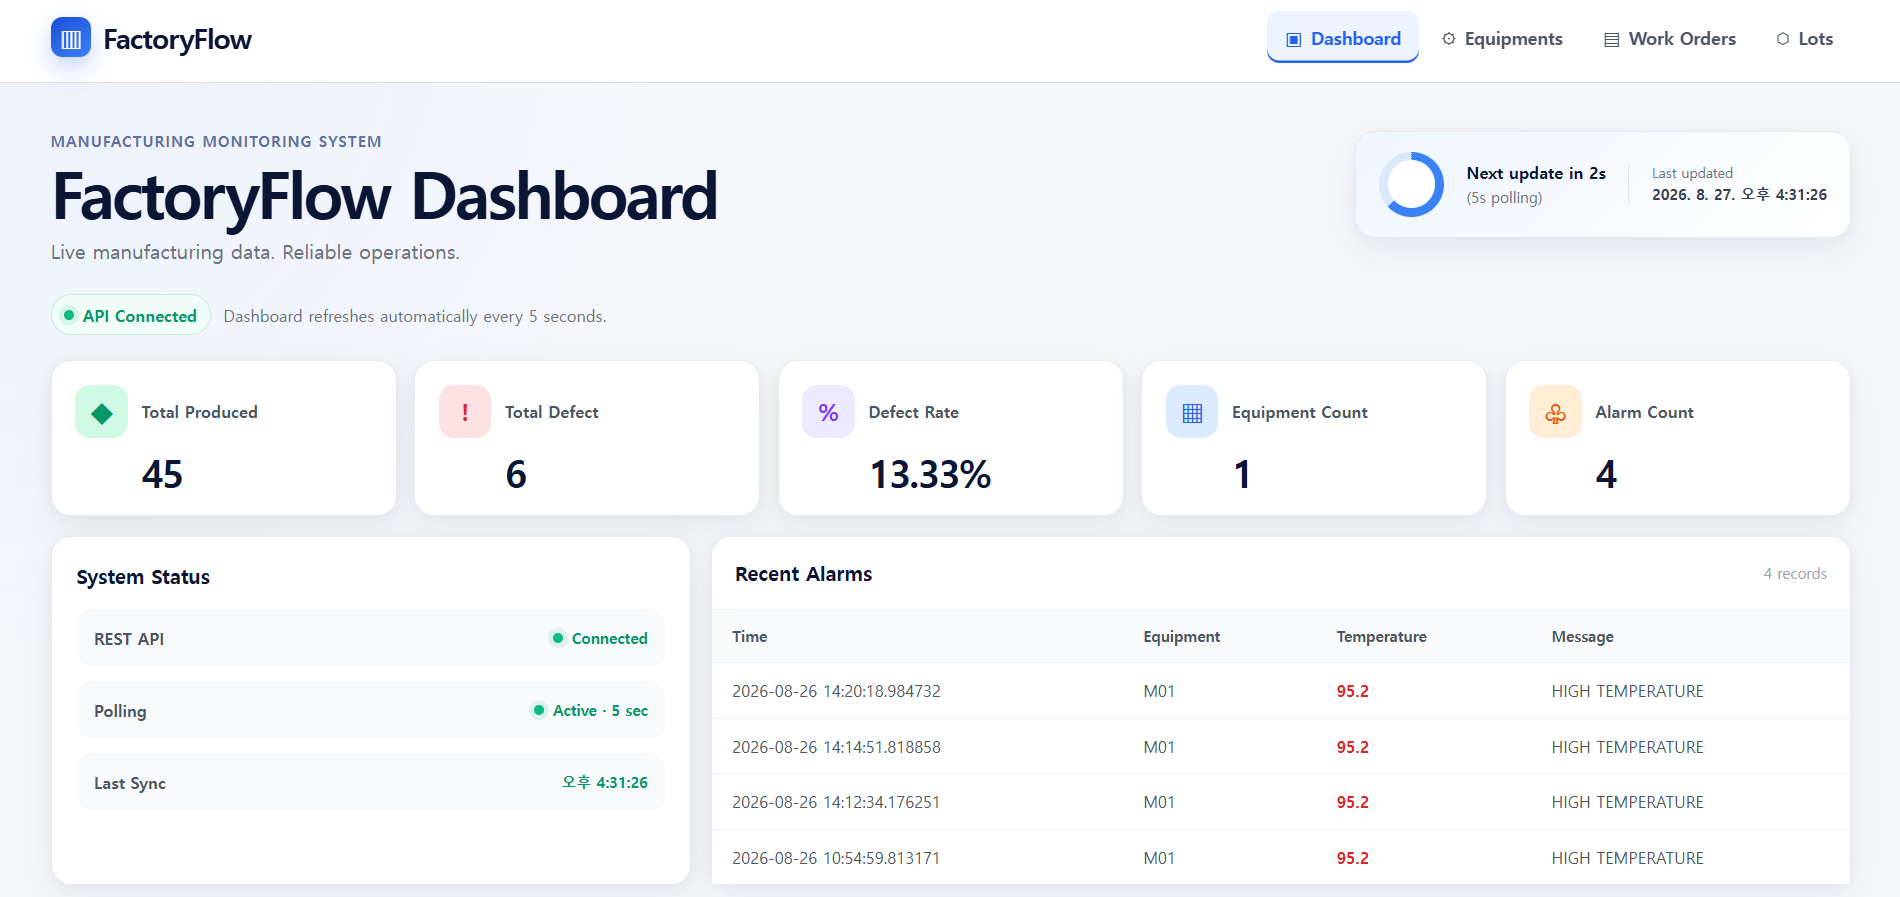
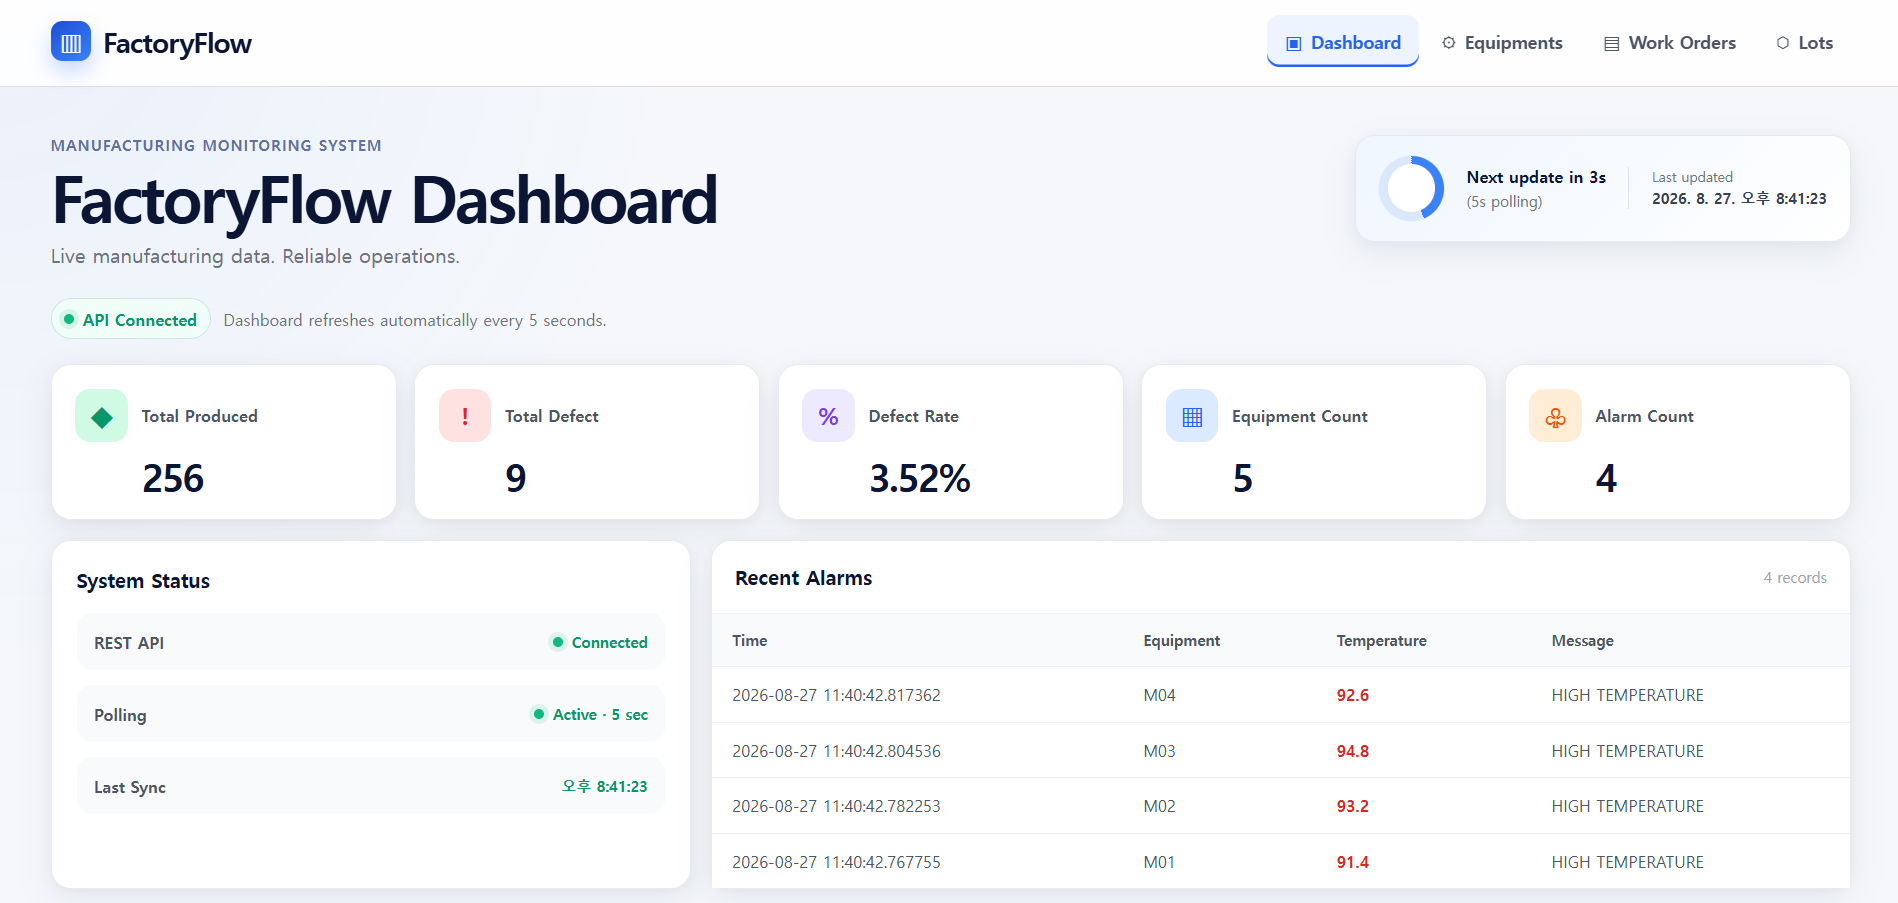
style: finalize FactoryFlow frontend design

diff --git a/factoryflow-dashboard/src/App.css b/factoryflow-dashboard/src/App.css
@@ -41,25 +41,31 @@
 .brand {
   display: inline-flex;
   align-items: center;
-  gap: 10px;
-  color: var(--navy-950);
-  font-size: 22px;
-  font-weight: 800;
+  gap: 12px;
+
+  color: #0f172a;
   text-decoration: none;
-  letter-spacing: -0.03em;
-  white-space: nowrap;
+  font-size: 22px;
+  font-weight: 700;
 }
 
 .brand-mark {
   width: 32px;
   height: 32px;
-  display: grid;
-  place-items: center;
-  border-radius: 9px;
-  background: linear-gradient(145deg, #1d4ed8, #3b82f6);
-  color: white;
-  font-size: 18px;
-  box-shadow: 0 8px 18px rgba(37, 99, 235, 0.25);
+  display: inline-flex;
+  align-items: center;
+  justify-content: center;
+  flex-shrink: 0;
+
+  border-radius: 10px;
+  background: #2563eb;
+  color: #ffffff;
+
+  font-size: 20px;
+  font-weight: 700;
+  line-height: 1;
+
+  box-shadow: 0 8px 20px rgba(37, 99, 235, 0.22);
 }
 
 .nav-links {
@@ -195,13 +201,8 @@
 }
 
 @keyframes pollingPulse {
-  from {
-    box-shadow: 0 0 0 0 rgba(59, 130, 246, 0.12);
-  }
-
-  to {
-    box-shadow: 0 0 0 7px rgba(59, 130, 246, 0);
-  }
+  from { box-shadow: 0 0 0 0 rgba(59, 130, 246, 0.12); }
+  to { box-shadow: 0 0 0 7px rgba(59, 130, 246, 0); }
 }
 
 @property --polling-angle {
@@ -316,30 +317,11 @@
   font-weight: 800;
 }
 
-.metric-icon.green {
-  color: var(--green-600);
-  background: var(--green-100);
-}
-
-.metric-icon.red {
-  color: var(--red-600);
-  background: var(--red-100);
-}
-
-.metric-icon.purple {
-  color: var(--purple-600);
-  background: var(--purple-100);
-}
-
-.metric-icon.blue {
-  color: var(--blue-600);
-  background: var(--blue-100);
-}
-
-.metric-icon.orange {
-  color: var(--orange-600);
-  background: var(--orange-100);
-}
+.metric-icon.green { color: var(--green-600); background: var(--green-100); }
+.metric-icon.red { color: var(--red-600); background: var(--red-100); }
+.metric-icon.purple { color: var(--purple-600); background: var(--purple-100); }
+.metric-icon.blue { color: var(--blue-600); background: var(--blue-100); }
+.metric-icon.orange { color: var(--orange-600); background: var(--orange-100); }
 
 .metric-label {
   margin: 0;
@@ -516,38 +498,32 @@
   font-weight: 800;
 }
 
-/* RUNNING = green */
 .status-badge.running {
   color: #047857;
   background: #d1fae5;
 }
 
-/* READY = purple */
 .status-badge.ready {
-  color: #6d28d9;
-  background: #ede9fe;
+  color: #047857;
+  background: #d1fae5;
 }
 
-/* COMPLETED = blue */
 .status-badge.completed {
   color: #1d4ed8;
   background: #dbeafe;
 }
 
-/* STOPPED / WAITING = gray */
 .status-badge.stopped,
 .status-badge.waiting {
   color: #475569;
   background: #e2e8f0;
 }
 
-/* PAUSED = yellow */
 .status-badge.paused {
   color: #b45309;
   background: #fef3c7;
 }
 
-/* ERROR / CANCELLED = red */
 .status-badge.error,
 .status-badge.cancelled {
   color: #b91c1c;
@@ -639,11 +615,6 @@
     font-size: 19px;
   }
 
-  .brand-mark {
-    width: 29px;
-    height: 29px;
-  }
-
   .page-shell {
     padding: 22px 0 36px;
   }
@@ -689,7 +660,7 @@
   .metric-grid {
     grid-template-columns: 1fr;
     gap: 12px;
-  } 
+  }
 
   .metric-card {
     padding: 16px;
